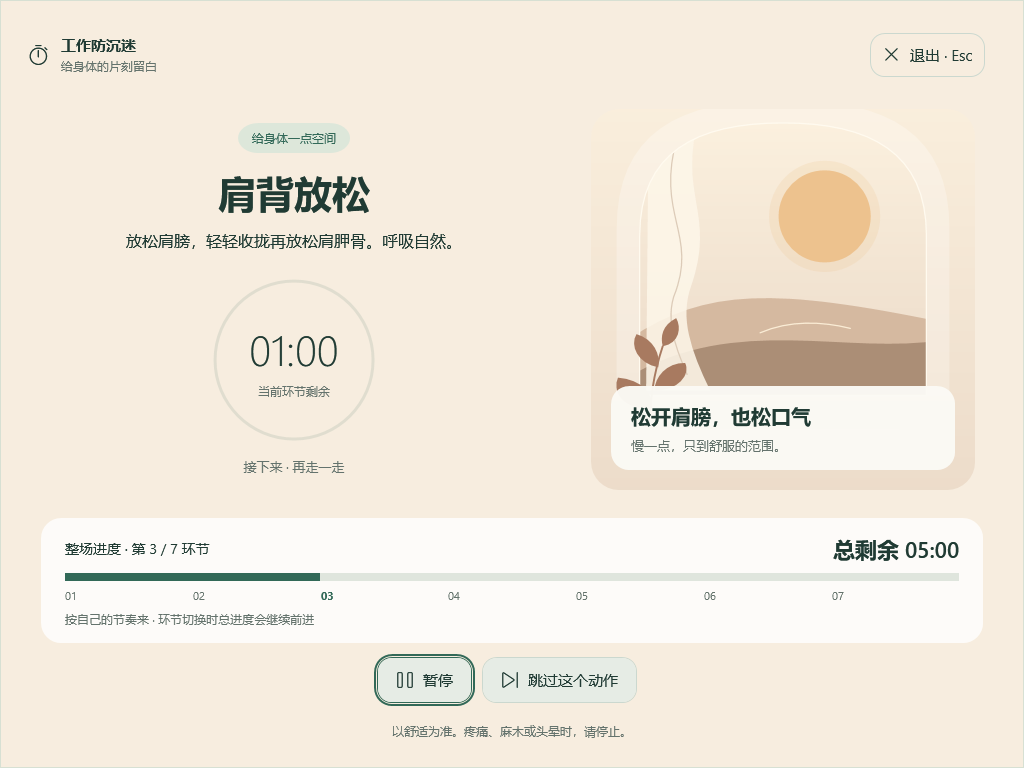
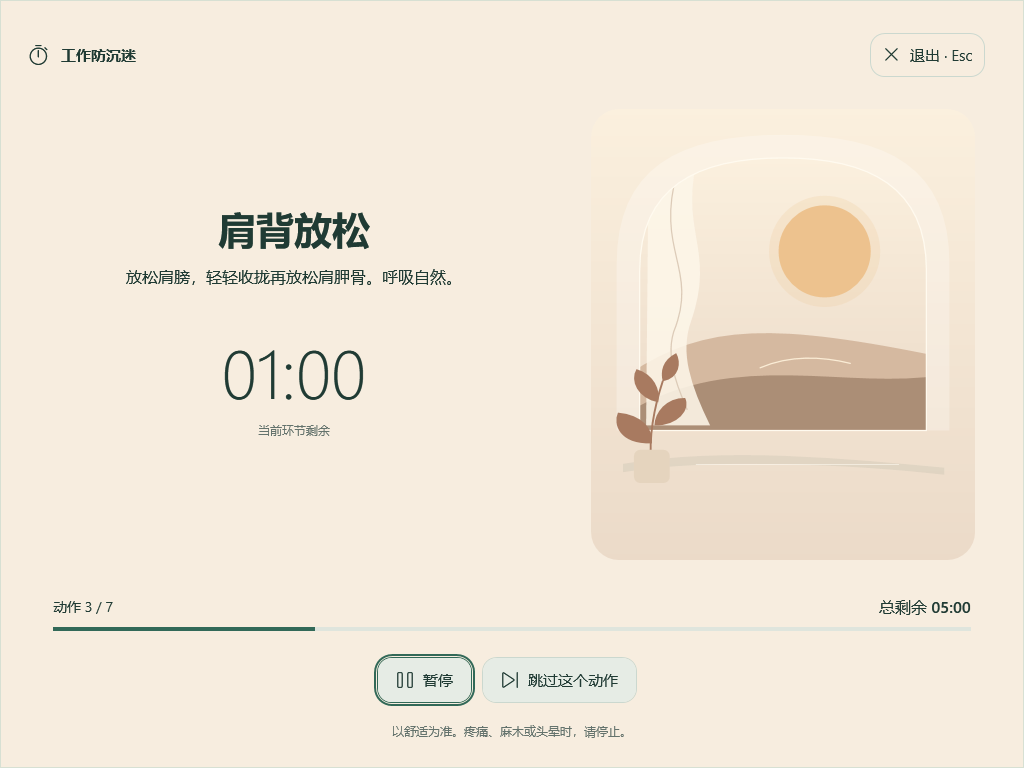
Document the simplified rest layout with its verified Windows screenshot

diff --git a/docs/VISUAL-ASSETS.md b/docs/VISUAL-ASSETS.md
@@ -36,4 +36,4 @@ Use case: stylized-concept. Asset type: premium native Windows wellness applicat
 
 `Views/RestArtwork.cs` 为本项目原创 WPF 矢量构图：远景湖面、花园步道、暖色帘幕和陶杯植物，分别对应远眺、走动、肩背和手部休息。场景只表达休息氛围，不作为动作教学图。采用统一的拱形空间、低饱和配色与植物前景；所有 DrawingImage 创建后冻结并缓存，不增加位图、网络或运行时依赖。既有首页位图保留。
 
-整场进度与单环节圆环独立。底部显示总剩余时间、按各环节时长划分的位置标记，并在暂停时明确说明两个计时均停止。跳过动作不会增加实际休息时间，未完整完成的结果显示实际时长比例。
+整场进度与单环节数字倒计时独立。底部以细进度线显示整场进度，仅保留动作序号和总剩余时间。移除重复的状态胶囊、圆环、插图文案卡片和多行预告；正常活动时隐藏解释文字，暂停或跳过时才显示必要状态。单环节远眺隐藏重复的整场进度区。跳过动作不会增加实际休息时间，未完整完成的结果显示实际时长比例。
